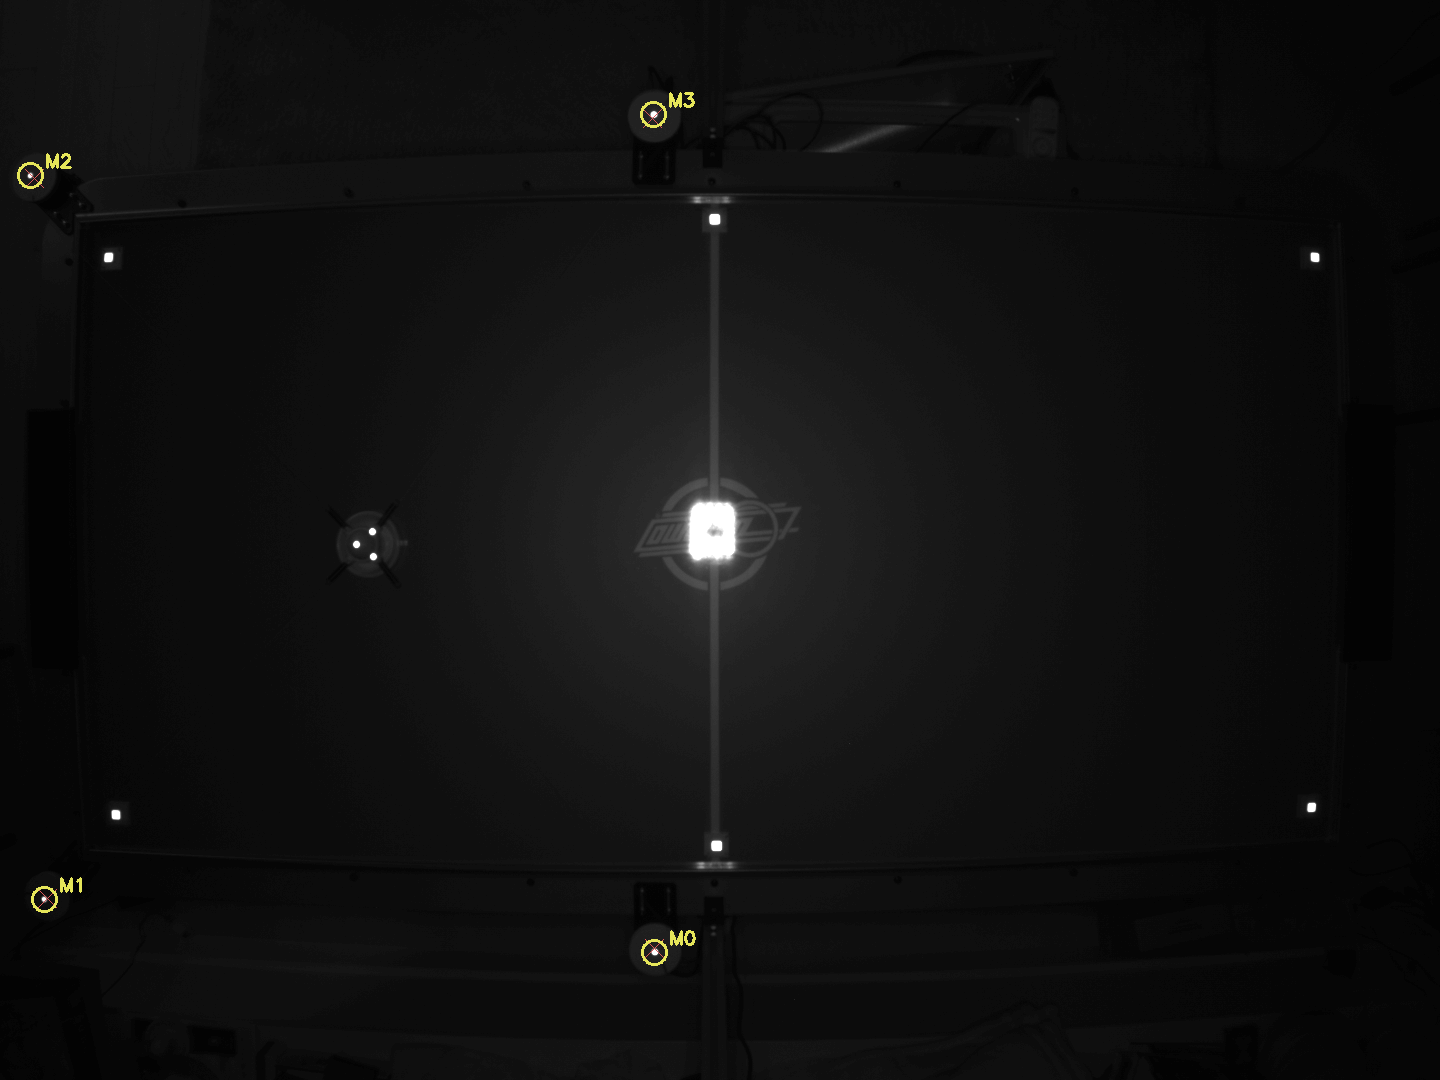
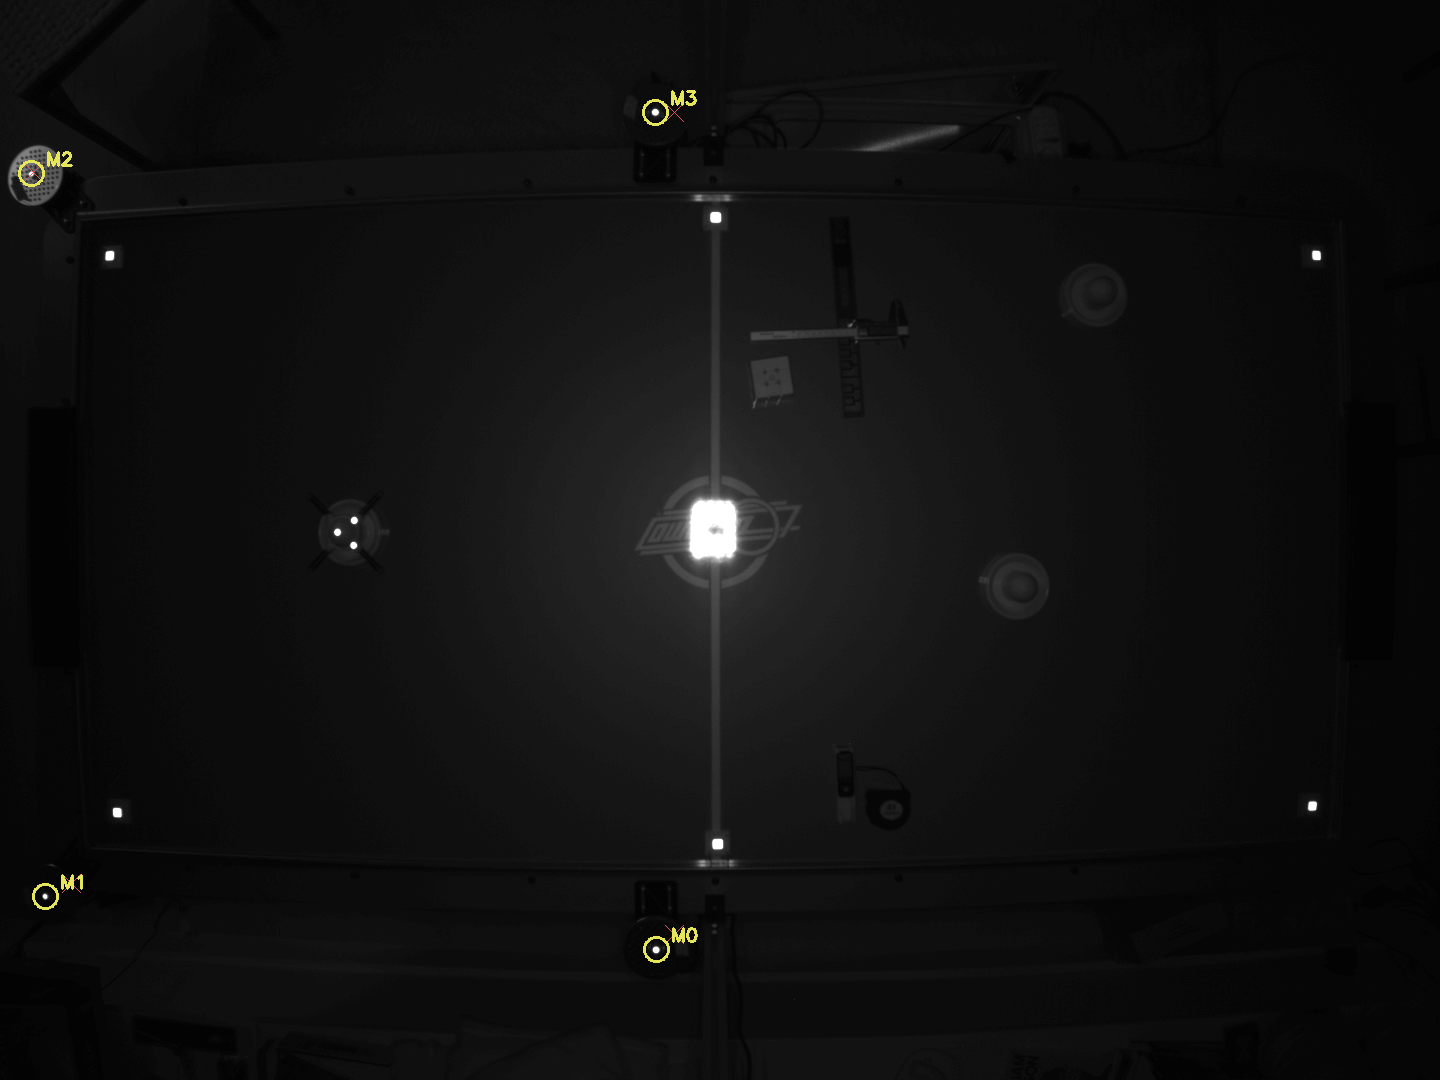
Re-measure the anchors optically, at the calipered height
M0/M1/M3 from retroreflectors on the new spool axes, back-projected onto
z = 33.5 mm. M2 keeps its caliper trilateration: 0.07 mm rms against the
4.2 mm the optical route lands from it, and there is nothing to gain from
making every anchor uniformly worse.

The height is now usable as measured, which it was not before. Fitting it
to five independent caliper constraints wants 35.0 mm (rms 2.16) against
the calipered 33.5 (rms 2.32) -- so 33.5 goes in as-is. Before yesterday's
grid fix the same fit demanded 24.3 mm against the same 33.5; that 9 mm was
the grid-count error being absorbed by the only free parameter the
procedure had, not a property of the markers.

Also fixed hardcoded 'col 77' / 'row 37' labels in both anchor tools --
they printed the old grid's last indices while using the new extents.

diff --git a/shared/cdpr_geometry.h b/shared/cdpr_geometry.h
@@ -71,48 +71,50 @@ constexpr float RAIL_MAX_Y = 985.1f;
 
 // ── Motor anchor positions ──────────────────────────────────────────
 //
-// ONLY M2 IS TRUSTWORTHY. M0, M1 and M3 ARE KNOWN BAD — see below.
+// MEASURED 2026-08-10, after the 78x38 -> 80x39 grid fix and against the
+// re-solved camera pose. Two methods, and the mix is deliberate:
 //
-// M2, 2026-08-10: trilaterated from caliper distances to three air holes —
-// 131.0 mm from the corner hole (col 79, row 0), 265.0 mm from (79, 6),
-// 259.0 mm from (73, 0). Residuals +0.10 / -0.06 / -0.05 mm, rms 0.07.
-// Distances beat axis offsets: they need no squareness and no axis to
-// measure along, and the third one turns a bare solution into a check.
-// Use shared/fit_anchors.py.
+// M0, M1, M3 — optical. vision/bin/measure_anchors.py finds a
+// retroreflector on each spool axis and back-projects it onto the plane
+// z = 33.5 mm, the calipered marker height. Repeatable to 0.1 mm over 9
+// bursts; ACCURATE to about 2-4 mm, which is a different number.
 //
-// M0, M1, M3 came from vision/bin/measure_anchors.py — a retroreflector on
-// each spool axis, back-projected through the camera pose — reconciled
-// against calipers. Two things have since invalidated them:
+// M2 — calipers, kept in preference to its own optical value because
+// trilateration from three air holes gave rms 0.07 mm (131.0 mm from hole
+// (79,0), 265.0 from (79,6), 259.0 from (73,0)) and the optical route lands
+// 4.2 mm away from that. Each anchor gets its best available measurement;
+// there is nothing to gain from making them uniformly worse. Use
+// shared/fit_anchors.py to do the other three the same way when convenient.
 //
-//   * the grid count was wrong (78x39 -> 80x39, 2026-08-10). The corner
-//     markers that fit the camera pose are placed relative to the grid
-//     EXTENT, so the pose those anchors were measured through was wrong.
-//     The caliper constraints used to reconcile them were mis-referenced
-//     the same way: "144.5 mm past the row-37 hole line" was measured past
-//     the LAST row, which is row 38, so it was 25.4 mm off before it was
-//     even used.
-//   * the spools were replaced, taking the markers with them, so the
-//     optical route cannot simply be re-run.
+// WHY THE HEIGHT CAN BE TRUSTED NOW, HAVING BEEN A FUDGE BEFORE.
+// The camera fixes the RAY each anchor lies on very well but leaves the
+// position ALONG it entirely to the assumed plane height — the lever is
+// 0.42 mm/mm for the mid-table pair and 0.82 for the robot-end pair.
+// Fitting that height to five independent caliper constraints now wants
+// 35.0 mm (rms 2.16) against the calipered 33.5 (rms 2.32), so the measured
+// height is used as-is; the 0.16 mm is not worth a fudge factor.
 //
-// They are left in place only because a stale number beats no number for
-// getting the rig to move at all. Do not trust anything computed from them.
-// Re-measure all three with fit_anchors.py, three distances each.
+// Before the grid fix the same fit demanded 24.3 mm against the same
+// calipered 33.5. That 9 mm was never a property of the markers: it was the
+// grid-count error in disguise, being absorbed by the only free parameter
+// the procedure had. A fitted constant that drifts 9 mm from a directly
+// measured one is a symptom, not a calibration — treat it that way.
 //
 // These are NOT a rectangle — the two pairs use different mounting
 // brackets, so any code deriving anchors from a width/height pair is wrong
 // by construction. Re-measure if the spools are re-mounted.
 
 constexpr float MOTOR_X[NUM_MOTORS] = {
-    1067.6f, // 0: mid-table, far side
-    2043.3f, // 1: robot corner, far side
-    2094.0f, // 2: robot corner, near side  CALIPERED
-    1063.0f, // 3: mid-table, near side
+    1095.6f, // 0: mid-table, far side    optical
+    2094.8f, // 1: robot corner, far side  optical
+    2094.0f, // 2: robot corner, near side CALIPERED
+    1091.7f, // 3: mid-table, near side    optical
 };
 constexpr float MOTOR_Y[NUM_MOTORS] = {
-    1082.0f, // 0
-    1041.2f, // 1
+    1107.2f, // 0
+    1066.0f, // 1
     -97.7f,  // 2  CALIPERED
-    -139.7f, // 3
+    -140.6f, // 3
 };
 
 // ── Spool ───────────────────────────────────────────────────────────
@@ -248,10 +250,10 @@ constexpr float HOME_Y = (WS_MIN_Y + WS_MAX_Y) / 2.0f;  // 483
 // absorbed when the controller is homed, so it is free.
 // Values are atan2(HOME_Y - MOTOR_Y[m], HOME_X - MOTOR_X[m]).
 constexpr float WRAP_REF_ANGLE[NUM_MOTORS] = {
-    -0.936818f, // 0
-    -2.335256f, // 1
+    -0.986946f, // 0
+    -2.359443f, // 1
     2.360737f, // 2
-    0.950319f, // 3
+    0.982165f, // 3
 };
 
 // ── Kinematics ──────────────────────────────────────────────────────

diff --git a/shared/cdpr_geometry.py b/shared/cdpr_geometry.py
@@ -30,8 +30,8 @@ RAIL_MAX_Y = 985.1
 # ONLY M2 IS TRUSTWORTHY — trilaterated from caliper distances to three
 # air holes, rms 0.07 mm. M0/M1/M3 predate the 78x38 -> 80x39 grid-count
 # fix and were measured through the wrong camera pose. See the header.
-MOTOR_X = [1067.6, 2043.3, 2094.0, 1063.0]
-MOTOR_Y = [1082.0, 1041.2, -97.7, -139.7]
+MOTOR_X = [1095.6, 2094.8, 2094.0, 1091.7]
+MOTOR_Y = [1107.2, 1066.0, -97.7, -140.6]
 
 # ── Spool ──
 # goBILDA 3400 Series hub-mount round-belt pulley, 96 mm PITCH DIAMETER,
@@ -61,7 +61,7 @@ WS_MAX_Y = 733.0
 HOME_X = (WS_MIN_X + WS_MAX_X) / 2.0   # 1508.0
 HOME_Y = (WS_MIN_Y + WS_MAX_Y) / 2.0   # 483.0
 
-WRAP_REF_ANGLE = [-0.936818, -2.335256, 2.360737, 0.950319]
+WRAP_REF_ANGLE = [-0.986946, -2.359443, 2.360737, 0.982165]
 
 # ── Heights above the playing surface ──
 MARKER_Z_MM = 3.3    # field markers, on 3D-printed mounts

diff --git a/shared/fit_anchors.py b/shared/fit_anchors.py
@@ -166,10 +166,12 @@ def main() -> int:
             print("      !! residuals are large — one measurement disagrees "
                   "with the others; re-check before trusting this")
             ok = False
+        last_col = round(geom.GRID_X_MM / geom.GRID_PITCH_MM)
+        last_row = round(geom.GRID_Y_MM / geom.GRID_PITCH_MM)
         across = (f"{-p[1]:.1f} mm outside row 0" if p[1] < 0
-                  else f"{p[1] - geom.GRID_Y_MM:.1f} mm outside row 37")
+                  else f"{p[1] - geom.GRID_Y_MM:.1f} mm outside row {last_row}")
         print(f"      against the grid: {across}, "
-              f"{p[0] - geom.GRID_X_MM:+.1f} mm past col 77\n")
+              f"{p[0] - geom.GRID_X_MM:+.1f} mm past col {last_col}\n")
         anchors[m] = [round(float(p[0]), 1), round(float(p[1]), 1)]
 
     unmeasured = [m for m in range(4) if m not in groups]

diff --git a/vision/bin/measure_anchors.py b/vision/bin/measure_anchors.py
@@ -232,11 +232,13 @@ def main() -> int:
     P = geom.GRID_PITCH_MM
     for m in range(4):
         x, y = got[m]
+        last_col = round(geom.GRID_X_MM / P)
+        last_row = round(geom.GRID_Y_MM / P)
         col = round(x / P)
-        along = (f"col {col} {x - col * P:+.1f}" if col <= 77
-                 else f"{x - geom.GRID_X_MM:+.1f} past col 77")
+        along = (f"col {col} {x - col * P:+.1f}" if col <= last_col
+                 else f"{x - geom.GRID_X_MM:+.1f} past col {last_col}")
         across = (f"{-y:6.1f} mm outside row 0" if y < 0
-                  else f"{y - geom.GRID_Y_MM:6.1f} mm outside row 37")
+                  else f"{y - geom.GRID_Y_MM:6.1f} mm outside row {last_row}")
         print(f"   M{m}   {along:>22}   {across}")
 
     vis = cv2.cvtColor(cv2.convertScaleAbs(img, alpha=3.0), cv2.COLOR_GRAY2BGR)
